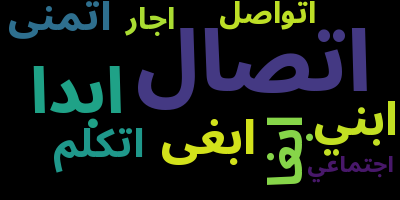
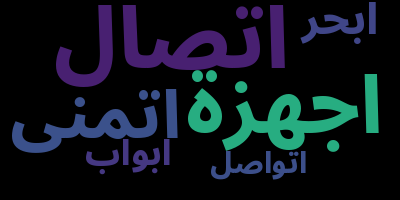
..

diff --git a/SEC_App/templates/SEC_App/results.html b/SEC_App/templates/SEC_App/results.html
@@ -6,7 +6,7 @@
     <meta http-equiv='X-UA-Compatible' content='IE=edge'>
     <meta name='viewport' content='width=device-width, initial-scale=1'>
     {% load static %}
-    <link rel='stylesheet' type='text/css' media='screen' href="{% static 'SEC_App/style.css' %}?version=19">
+    <link rel='stylesheet' type='text/css' media='screen' href="{% static 'SEC_App/style.css' %}?version=21">
     <script  type="module" src="{% static 'SEC_App/search.js' %}" defer></script>
 
     <!-- Tajawal font -->
@@ -23,12 +23,15 @@
 </head>
 <body>  
   <div id='pdf-container'>
-  <h1>النتائج والتحليلات</h1>
+  <h1>النتائج والتحليلات <div id="home-button-div" style="display: inline-block;">
+    <a href="{% url 'SEC_App:search' %}"><img id='home-button' src="{% static 'SEC_App/home-page.svg' %}" alt="الصفحة الرئيسية" style='display: "inline-block"'></a>
+  </div></h1>
   <div id='search-details'>
     <table>
       <tr>
         <th>كلمات البحث:</th>
         <td>{{req.keyword}}</td>
+        <td id="home-button-column"></td>
       </tr>
     </table>
     <table>
@@ -41,20 +44,17 @@
     </table>
     <form action="{% url 'SEC_App:history' %}" method="POST">
       {% csrf_token %}
-      <label for="query_num">رقم الطلب</label>
+      <label for="query_num">البحث رقم</label>
                 <select name="query_num" id="query_num" onchange="this.form.submit()">
-                    {% for req_num in requests_ids %}
-                      {% if req_num == req.id %}
-                        <option value={{req_num}} selected="selected">{{ req_num }}</option>
+                    {% for req_obj in req_list %}
+                      {% if req_obj.id == req.id %}
+                        <option value={{req_obj.id}} selected="selected" size=5>{{req_obj.id}}</option>
                       {% else %}
-                        <option value={{req_num}}>{{ req_num }}</option>
+                        <option value={{req_obj.id}}>{{req_obj.id}} تاريخ الطلب: {{req_obj.date_time}} كلمات البحث: "{{req_obj.keyword}}" من: {{req_obj.true_start}} إلى: {{req_obj.true_end}}</option>
                       {% endif %}
                     {% endfor %}
                 </select>
           </form>
-  </div>
-  <div id="home-button-div">
-    <a href="{% url 'SEC_App:search' %}"><img id='home-button' src="{% static 'SEC_App/home-page.svg' %}" alt="الصفحة الرئيسية" style='display: "inline-block"'></a>
   </div>
   <br><br>
   <div class="center-wrapper">
@@ -74,9 +74,9 @@
   <br><br><br>
   <div id="week-days-container" style='display: "inline-block"'>
     <canvas id="myChart2" width="30%" height="30%" style='display: "inline-block" !important;'></canvas>
+    <button id="2" type="button" >ساعات</button>
     <button id="0" type="button" >أيام</button>
     <button id="1" type="button" >أشهر</button>
-    <button id="2" type="button" >ساعات</button>
   </div>
   <div id="wordcloud-container">
     <span>سحابة الكلمات</span>
@@ -797,4 +797,4 @@ function imgToBase64(url, callback, imgVariable) {
 </body>
 </html>
 
-return sum(range(0,max(nums)))-sum(nums) if sum(range(0,max(nums)))-sum(nums) != 0 else max(nums)+1
+<!-- return sum(range(0,max(nums)))-sum(nums) if sum(range(0,max(nums)))-sum(nums) != 0 else max(nums)+1 -->

diff --git a/SEC_App/templates/SEC_App/search.html b/SEC_App/templates/SEC_App/search.html
@@ -6,7 +6,7 @@
     <title>تحليل بيانات شركة الكهرباء</title>
     <meta name='viewport' content='width=device-width, initial-scale=1'>
     {% load static %}
-    <link rel='stylesheet' type='text/css' media='screen' href="{% static 'SEC_App/style.css' %}?version=2">
+    <link rel='stylesheet' type='text/css' media='screen' href="{% static 'SEC_App/style.css' %}?version=4">
     <script src="{% static 'SEC_App/search.js' %}" defer></script>
 
     <!-- jQuery Datepicker -->
@@ -37,7 +37,7 @@
     
 
     <div id='full-page'>
-    <h1>تحليل بيانات شركة الكهرباء</h1>
+    <h1 id='home-h1'>تحليل بيانات شركة الكهرباء</h1>
     <div id="input-box-wrapper">
         <fieldset class='input_box'>
             <legend><h2>أساسي</h2></legend>

diff --git a/SEC_App/static/SEC_App/style.css b/SEC_App/static/SEC_App/style.css
@@ -90,6 +90,10 @@ table {
 }
 
 h1 {
+    text-align: left;
+}
+
+#home-h1 {
     text-align: center;
 }
 
@@ -145,10 +149,13 @@ p {
 font-size: 1.5rem;
 }
   
-#home-button {
+#home-button, #home-button-div{
     height: 33px;
     width: 33px;
-    position: absolute;
-    margin-left: 5%;
-    margin-right: 70%;
+    margin-left: 2%;
+    margin-right: 38%;
+}
+
+#home-button-column {
+    padding-right: 800px;
 }

diff --git a/SEC_App/views.py b/SEC_App/views.py
@@ -22,7 +22,6 @@ def searchView(request):
     """
     home page / search page
     """
-
     if 'requests_ids' in request.session and request.session['requests_ids'] != None:
         return render(request,'SEC_App/search.html', {'query_num': request.session['requests_ids'][-1]})
     else: 
@@ -41,6 +40,7 @@ def analysis(request):
         request.session['requests_ids'] = request.session['requests_ids']+[req.id]
     else:
         request.session['requests_ids'] = [req.id]
+
     #Search for tweets
     tweets_df = search(req.keyword, limit=request.POST.get('limit',''), Since = req.period_start, Until = req.period_end)
     
@@ -53,26 +53,36 @@ def analysis(request):
                             nlike=tweets_df.iloc[i].nlikes, nretweet=tweets_df.iloc[i].nretweets, 
                             nreply=tweets_df.iloc[i].nreplies, username=tweets_df.iloc[i].username, 
                             name=tweets_df.iloc[i].name)
-    req.save()
+    
 
     # actual from and to dates
     from_date = tweets_df.iloc[tweets_df.shape[0]-1].date[:10]
     to_date = tweets_df.iloc[0].date[:10]
 
+    req.true_start = from_date
+    req.true_end = to_date
+    req.save()
+
+    #create requests list object
+    req_list = []
+    for req_id in request.session['requests_ids']:
+        req_list.append(Request.objects.get(id=req_id))
+
     #Clean dataframe
     tweets_df_cleaned = cleanDataframe(tweets_df)
     #Clean text
-    tweets_df_cleaned_text =  tweets_df_cleaned['tweet_text'].apply(lambda text : cleanTxt(text,Emoji_Dict(),stopwords_set()))
+    tweets_df_cleaned_text = tweets_df_cleaned['tweet_text'].apply(lambda text : cleanTxt(text,Emoji_Dict(),stopwords_set()))
     #Preprocessing text: create document term matrix 
     dtm = dtm_df(tweets_df_cleaned_text)
     #(create+show,save:optional) arabic word cloud 
-    word_cloud(dtm, path='SEC_App/static/SEC_App/wordcloud.png')
+    # word_cloud(dtm, path='SEC_App/static/SEC_App/wordcloud.png')
 
     # prepare tweet list to appear in result.html
     tweet_list = tweets_df_cleaned.head(50)['tweet_text'].to_list()
 
     #prepare the graphs data
     tweets_df_cleaned = predict_sentiments(tweets_df_cleaned, dtm)
+    # tweets_df_cleaned['sentiment'] = predict_sentiments([' '.join(list) for list in tweets_df_cleaned_text])
     reactions = get_reactions_dic(tweets_df_cleaned)
     period_data = get_period_dic(tweets_df_cleaned)
     sentiment_data = get_sentiment_dic(tweets_df_cleaned)
@@ -88,7 +98,7 @@ def analysis(request):
     return render(request, 'SEC_App/results.html',{'tweets_list': tweet_list, 'reactions': reactions, 'req': req, 
                                                     'from_date':from_date, 'to_date':to_date, 'period_data':period_data, 
                                                     'sentiment_data':sentiment_data, 'num_tweets':tweets_df_cleaned.shape[0], 
-                                                    'requests_ids':request.session['requests_ids']})
+                                                    'req_list':req_list})
 
 def history(request):
     """
@@ -101,17 +111,22 @@ def history(request):
         req = Request.objects.get(id=request.GET.get('query_num'))
     
     analysis = Analysis.objects.get(request=req)
-    
+
     #to decode analysis data
     jsonDec = decoder.JSONDecoder()
     
     #(create+show,save:optional) arabic word cloud 
     word_cloud(pd.read_json(analysis.dtm), path='SEC_App/static/SEC_App/wordcloud.png')
 
+    #create requests list object
+    req_list = []
+    for req_id in request.session['requests_ids']:
+        req_list.append(Request.objects.get(id=req_id))
+
     return render(request, 'SEC_App/results.html',{'tweets_list': jsonDec.decode(analysis.tweets_list), 'reactions': analysis.reactions, 'req': req, 
                                                     'from_date':analysis.from_date, 'to_date':analysis.to_date, 'period_data':analysis.period_data, 
                                                     'sentiment_data':analysis.sentiment_data, 'num_tweets':analysis.num_tweets, 
-                                                    'requests_ids':request.session['requests_ids']})
+                                                    'req_list':req_list})
 
 def get_reactions_dic(tweets_df):
     # raection bar chart data set

diff --git a/SEC_App/wordCloud.py b/SEC_App/wordCloud.py
@@ -24,6 +24,24 @@ from ar_wordcloud import ArabicWordCloud
     #object saving
 import joblib
 
+    #For arabert
+# from arabert.preprocess import ArabertPreprocessor
+# import numpy as np
+
+# from transformers import AutoConfig, AutoModelForSequenceClassification, AutoTokenizer, BertTokenizer
+# from transformers.data.processors import SingleSentenceClassificationProcessor
+# from transformers import Trainer , TrainingArguments
+# from transformers.trainer_utils import EvaluationStrategy
+# from transformers.data.processors.utils import InputFeatures
+# from torch.utils.data import Dataset
+# from torch.utils.data import DataLoader
+# from sklearn.utils import resample
+# import logging
+# import torch
+
+# DATA_COLUMN = "text"
+# model_name = 'aubmindlab/bert-base-arabertv02'
+# max_len = 280
 
 
 '''___________________________________ STEP1: Data Gathring ____________________________________ '''
@@ -158,7 +176,7 @@ def cleanTxt(text,Emoji_Dict,stopwords_set):
     text = re.sub(r"\b[a-zA-Z0–9]\b", "", text) #Removing single charcter word
     
     text = convert_emojis_to_word(text,Emoji_Dict)
-    text = tokenize(text)
+    text1 = tokenize(text)
 
     return [word for word in text if word not in stopwords_set and len(word)>3 ]
 
@@ -215,7 +233,82 @@ def word_cloud(dtm_df,path = None):
     if path:
         awc.to_file(path)
 
+'''___________________________________  Predict Sentiments  ____________________________________ '''
+# class Dataset:
+#     def __init__(
+#         self,
+#         name,
+#         test,
+#         label_list,
+#     ):
+#         self.name = name
+#         self.test = test
+#         self.label_list = label_list
+
+# class BERTDataset(Dataset):
+#     def __init__(self, text, model_name, max_len):
+#       super(BERTDataset).__init__()
+#       self.text = text
+#       self.tokenizer_name = model_name
+#       self.tokenizer = AutoTokenizer.from_pretrained(model_name)
+#       self.max_len = max_len
+
+#     def __len__(self):
+#       return len(self.text)
+
+#     def __getitem__(self,item):
+#       text = str(self.text[item])
+#       text = " ".join(text.split())
+
+#       input_ids = self.tokenizer.encode(
+#           text,
+#           add_special_tokens=True,
+#           max_length=self.max_len,
+#           truncation='longest_first'
+#       )     
+    
+#       attention_mask = [1] * len(input_ids)
+
+#       # Zero-pad up to the sequence length.
+#       padding_length = self.max_len - len(input_ids)
+#       input_ids = input_ids + ([self.tokenizer.pad_token_id] * padding_length)
+#       attention_mask = attention_mask + ([0] * padding_length)
+
+#       return InputFeatures(input_ids=input_ids, attention_mask=attention_mask)
+
+# def create_dataset(tweets_text):
+#     tweets_text = tweets_text[["Text"]]  
+#     tweets_text.columns = [DATA_COLUMN]
+#     label_list_KAUST = ['NEG', 'NEUTRAL', 'POS']
+#     tweets = Dataset("tweets_text", tweets_text, label_list_KAUST)
+
+#     arabert_prep = ArabertPreprocessor(model_name.split("/")[-1])
+#     tweets.test[DATA_COLUMN] = tweets.test[DATA_COLUMN].apply(lambda x:   arabert_prep.preprocess(x))  
+#     tweets_dataset = BERTDataset(tweets.test[DATA_COLUMN].to_list(),model_name,max_len)
+     
+#     return tweets_dataset
+
+     
+# def load_arabert_model():
+#     PATH = '/Users/sarahalhabib/Downloads/kaust_arabert'
+#     model = AutoModelForSequenceClassification.from_pretrained(PATH, return_dict=True, num_labels=3)
+    
+#     trainer = Trainer(
+#         model = model,
+#     )
+
+#     return trainer
+
+# def predict_sentiments(tweets_text):
+#     #load model 
+#     model = load_arabert_model()
+#     predictions = model.predict(create_dataset(tweets_text))
+#     sentiments = np.argmax(predictions.predictions, axis=1)-1
+    
+#     return sentiments
+
 def predict_sentiments(tweets_df, dtm):
+    
     # save the model to disk
     filename = 'model1.sav'
     # some time later...

diff --git a/SEC_App/models.py b/SEC_App/models.py
@@ -7,7 +7,9 @@ class Request(models.Model):
     keyword = models.TextField()
     period_start = models.DateField(null=True)
     period_end = models.DateField(null=True)
-    time_start = models.TimeField(null=True)
+    true_start = models.TextField(null=True)
+    true_end = models.TextField(null=True)
+    time_start = models.TimeField(null=True) 
     time_end = models.TimeField(null=True)
     rangeOfsearch =  models.IntegerField(choices=[(0,'@ALKAHRABA OR @AlkahrabaCare OR كلمة البحث'),(1,'كلمة البحث فقط')])
     date_time = models.DateTimeField()
@@ -22,6 +24,8 @@ class Request(models.Model):
     1 : @Alkahrba or @AlkahrabaCare
     2 : option 1 & 2
     ----------
+    period-start, period_end: specified by the user
+    true_start, true_end: from the extracted tweets 
     """
     
 class Tweet(models.Model):

diff --git a/SEC_App/migrations/0013_auto_20210701_1008.py b/SEC_App/migrations/0013_auto_20210701_1008.py
@@ -1,0 +1,23 @@
+# Generated by Django 3.2.4 on 2021-07-01 07:08
+
+from django.db import migrations, models
+
+
+class Migration(migrations.Migration):
+
+    dependencies = [
+        ('SEC_App', '0012_auto_20210701_0958'),
+    ]
+
+    operations = [
+        migrations.AlterField(
+            model_name='request',
+            name='true_end',
+            field=models.TextField(null=True),
+        ),
+        migrations.AlterField(
+            model_name='request',
+            name='true_start',
+            field=models.TextField(null=True),
+        ),
+    ]

diff --git a/SEC_App/migrations/0012_auto_20210701_0958.py b/SEC_App/migrations/0012_auto_20210701_0958.py
@@ -1,0 +1,23 @@
+# Generated by Django 3.2.4 on 2021-07-01 06:58
+
+from django.db import migrations, models
+
+
+class Migration(migrations.Migration):
+
+    dependencies = [
+        ('SEC_App', '0011_auto_20210628_1305'),
+    ]
+
+    operations = [
+        migrations.AddField(
+            model_name='request',
+            name='true_end',
+            field=models.DateField(null=True),
+        ),
+        migrations.AddField(
+            model_name='request',
+            name='true_start',
+            field=models.DateField(null=True),
+        ),
+    ]
